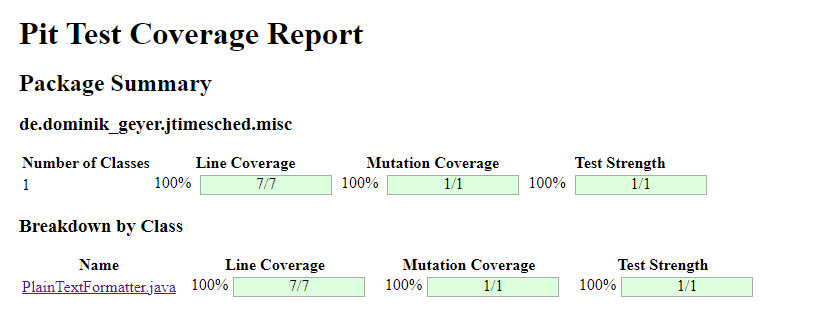
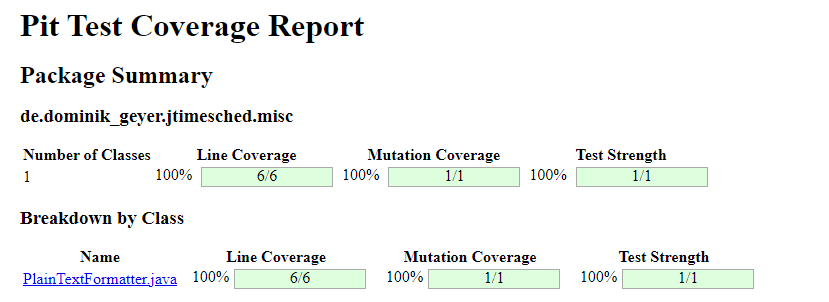
add: explained equivalent tests and fix test

diff --git a/src/test/java/de/dominik_geyer/jtimesched/project/ProjectTest.java b/src/test/java/de/dominik_geyer/jtimesched/project/ProjectTest.java
@@ -175,12 +175,14 @@ public class ProjectTest {
   @Test
   public void runningElapsedSecondsTest() {
     // Given
+    long DAY_IN_MS = 1000 * 60 * 60 * 24;
     Project project = new Project();
     project.setRunning(true);
-
+    project.setTimeStart(
+        new Date(System.currentTimeMillis() - (3 * DAY_IN_MS)));
     // When and Then
     try {
-      Assertions.assertEquals(0, project.getElapsedSeconds());
+      Assertions.assertEquals(259200, project.getElapsedSeconds());
     } catch (ProjectException e) {
       fail("Exception shouldn't be thrown");
     }

diff --git a/docs/09_assignment/09_assignment.md b/docs/09_assignment/09_assignment.md
@@ -21,6 +21,16 @@
 
 ### Project
 
+Before explaining the equivalent mutants, it's important to highlight a possible mutation in the `Project` class is the removal of `e.printStackTrace()` calls. As expected, the tests continues to pass even if this line of code is removed. However, as the `e.printStackTrace()` is called for debug and log proposals, we decided to ignore this mutation test.
+
+The conditions `if (secondsOverral < 0)` and `if (secondsToday < 0)`  in the functions `setSecondsOverral`, `setSecondsToday` and `adjustSecondsToday` fails the mutations test, by surviving, when the conditions boundary is changed. 
+However, changing the `<` for ` <=` is an equivalent mutant, since it behaves as the original program and it's expected and will not be treated. 
+
+![](./images/project_secondsToday.png)
+
+
+
+
 ### ProjectTime
 
 ### ProjectTableModel
@@ -32,6 +42,52 @@
 ## Description of the tests 
 
 ###  Project 
+
+In the `Project` class a mutation test has survived in the `getElapsedSeconds` method: 
+
+![](./images/project_getElapsedSeconds.png)
+
+The mutation test that has failed is replacing the return value for zero. 
+
+In fact, the test created to verify this function expects that the function returns a zero value, since the `timeStart` is not set: 
+
+```java
+  @Test
+  public void runningElapsedSecondsTest() {
+    // Given
+    Project project = new Project();
+    project.setRunning(true);
+    // When and Then
+    try {
+      Assertions.assertEquals(0, project.getElapsedSeconds());
+    } catch (ProjectException e) {
+      fail("Exception shouldn't be thrown");
+    }
+  }
+```
+
+  Thus, we have set a value for the `startTime` variable which is equivalent of three days before the test execution: 
+
+```java
+@Test
+public void runningElapsedSecondsTest() {
+    // Given
+    long DAY_IN_MS = 1000 * 60 * 60 * 24;
+    Project project = new Project();
+    project.setRunning(true);
+    project.setTimeStart(
+        new Date(System.currentTimeMillis() - (3 * DAY_IN_MS)));
+    // When and Then
+    try {
+        Assertions.assertEquals(259200, project.getElapsedSeconds());
+    } catch (ProjectException e) {
+        fail("Exception shouldn't be thrown");
+    }
+}
+```
+
+On this way, the test is always expecting to have `259200` as return value and passes the mutation test. 
+
 
 ### ProjectTime 
 
